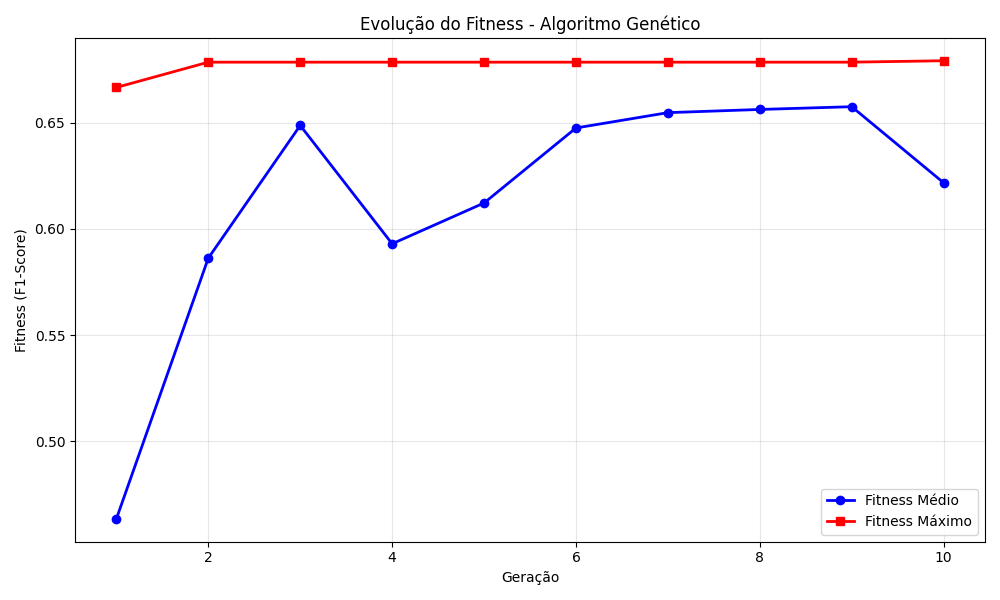
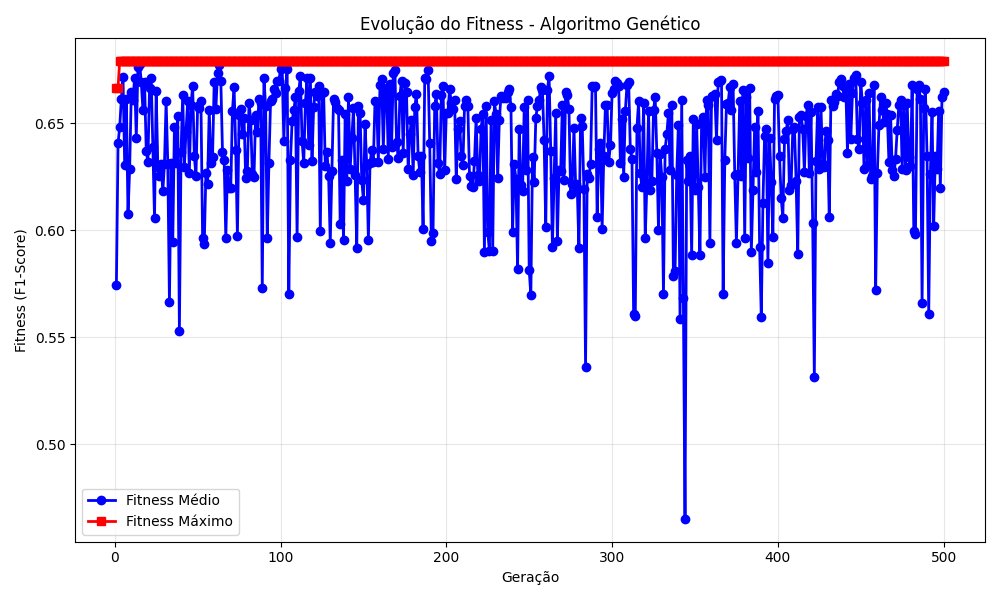
Aumentando as gerações do algoritmos genéticos de 10 para 500

diff --git a/diabetes_regressao_logistica2.py b/diabetes_regressao_logistica2.py
@@ -826,7 +826,7 @@ class AlgoritmoGenetico:
 # Configuração do algoritmo genético
 USAR_ALGORITMO_GENETICO = True  # Flag para habilitar/desabilitar o algoritmo genético
 POPULACAO_TAMANHO = 20
-GERACOES = 10
+GERACOES = 500
 TAXA_MUTACAO = 0.15
 TAXA_CROSSOVER = 0.7
 
